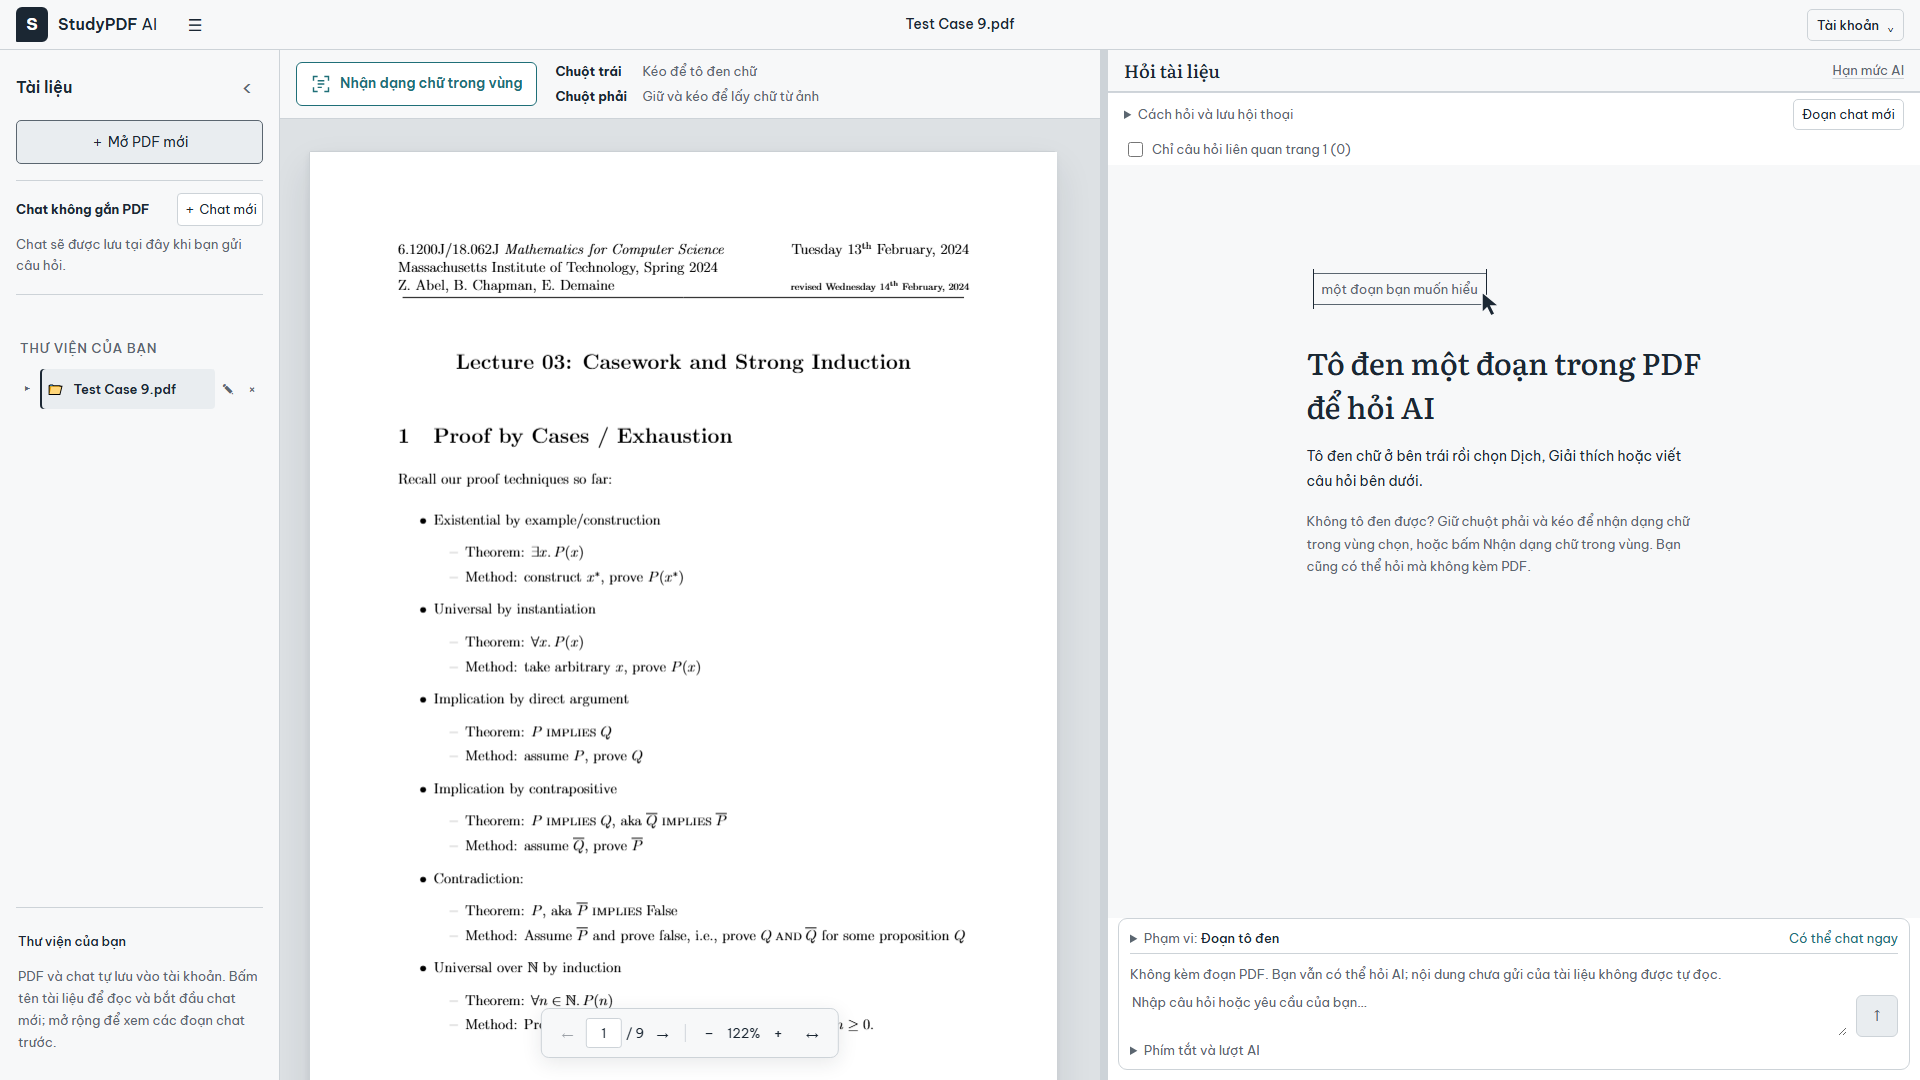
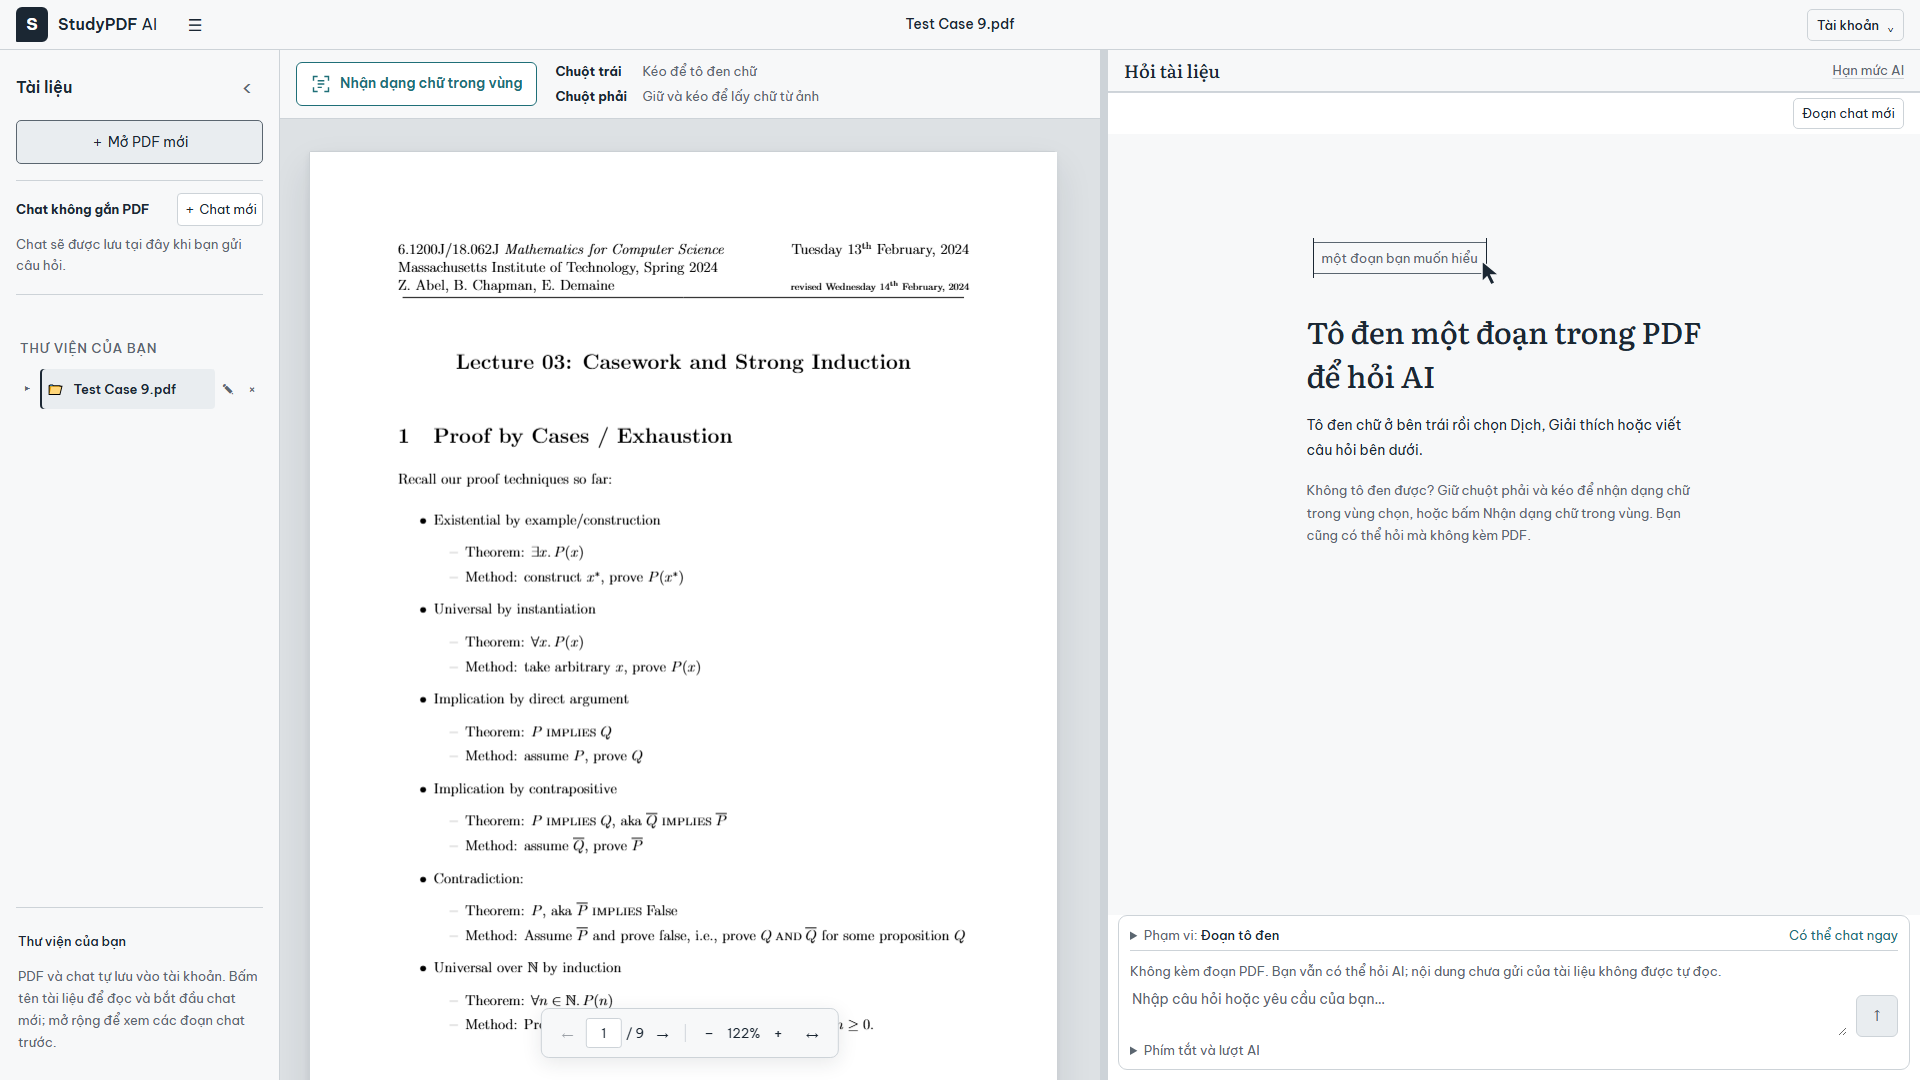
ui: enlarge chat text and remove conversation help and page filter

diff --git a/src/components/AiPanel/ChatPanel.tsx b/src/components/AiPanel/ChatPanel.tsx
@@ -1,7 +1,7 @@
 import type {OcrLanguage} from '../../services/pdf/ocr';
 import {loadChat,subscribeLibrary,saveChat,type LibrarySession} from '../../services/library/store';
 import type {ReaderContext} from '../../types/reader';
-import {parsePageRange,scopeLabel,includesPage} from '../../../shared/ai/contextScope';
+import {parsePageRange,scopeLabel} from '../../../shared/ai/contextScope';
 import type { OwnerScope } from '../../services/ownerScope';
 import { useEffect, useImperativeHandle, useRef, useState, type Ref } from 'react';
 import type { AiAction } from '../../types/ai';
@@ -38,7 +38,7 @@ export default function ChatPanel({ librarySession, readerContext, actionRef, ow
   const chosen=correction?.source===originalChosen?correction.value:originalChosen;
   const editing=!!editSource&&editSource===originalChosen;
   const saveCorrection=()=>{if(!originalChosen)return;const text=ocrDraft.trim();if(!text||text.length>12000){setEditError('Nội dung nhận dạng cần từ 1 đến 12.000 ký tự.');return;}setCorrection({source:originalChosen,value:{...originalChosen,text,cleanedText:text}});setEditSource(null);setEditError('');};
-  const [pageOnly,setPageOnly]=useState(false),[visibleCount,setVisibleCount]=useState(20);
+  const [visibleCount,setVisibleCount]=useState(20);
   useEffect(()=>()=>{preparation.current?.abort();},[contextKey]);
   const prepare=async()=>{
     if(!readerContext)return;
@@ -158,16 +158,13 @@ export default function ChatPanel({ librarySession, readerContext, actionRef, ow
     sendSelection: (action, source) => send(action === 'translate' ? 'Dịch đoạn đã chọn sang tiếng Việt.' : 'Giải thích đoạn đã chọn.', correction?.source===source?correction.value:source, action),
   }));
 
-  const filtered=pageOnly&&readerContext?turns.filter(turn=>!!turn.selection.cleanedText.trim()&&includesPage(turn.selection.scope,turn.selection.pageNumber,readerContext.currentPage)):turns;
-  const visible=filtered.slice(-visibleCount);
+  const visible=turns.slice(-visibleCount);
   return <section className="ai-panel ask-chat" aria-label="Hội thoại Hỏi AI" data-selection-controls>
     <header className="chat-header">
       <strong>Hội thoại AI</strong>
-      <details className="chat-help"><summary>Cách hỏi và lưu hội thoại</summary><small>Tô đen một đoạn để chọn Dịch hoặc Giải thích, hoặc viết yêu cầu vào ô bên dưới. PDF và chat tự lưu vào tài khoản. Để đọc lại, mở rộng tên tài liệu bên trái và chọn đoạn chat. Nội dung bạn chọn và các lượt chat gần nhất được gửi tới Google khi bạn hỏi AI.</small></details>
       <button type="button" disabled={!librarySession&&!turns.length} onClick={()=>void (librarySession?librarySession.onNew():flush().then(()=>change(()=>[]))).catch(e=>setSaveError(e.message))}>Đoạn chat mới</button>
     </header>
     {saveError&&<p role="alert">{saveError} <button onClick={()=>void persist().catch(e=>setSaveError(e.message))}>Thử lưu lại</button></p>}
-    {readerContext&&<label className="chat-page-filter"><input type="checkbox" checked={pageOnly} onChange={event=>{setPageOnly(event.target.checked);setVisibleCount(20);}}/>Chỉ câu hỏi liên quan trang {readerContext.currentPage} ({filtered.length})</label>}
     <div className="chat-messages" ref={messages} onScroll={event => {
       const node = event.currentTarget;
       follow.current = node.scrollHeight - node.scrollTop - node.clientHeight < 80;
@@ -179,8 +176,7 @@ export default function ChatPanel({ librarySession, readerContext, actionRef, ow
         <small>Không tô đen được? Giữ chuột phải và kéo để nhận dạng chữ trong vùng chọn, hoặc bấm Nhận dạng chữ trong vùng. Bạn cũng có thể hỏi mà không kèm PDF.</small>
       </div>}
 
-      {filtered.length>visibleCount&&<button type="button" onClick={()=>{follow.current=false;setVisibleCount(n=>n+20);}}>Xem thêm 20 lượt trước</button>}
-      {pageOnly&&turns.length>0&&filtered.length===0&&<p>Chưa có câu hỏi liên quan trang này trong hội thoại hiện tại. Mở rộng thư mục PDF bên trái để xem các chat cũ.</p>}
+      {turns.length>visibleCount&&<button type="button" onClick={()=>{follow.current=false;setVisibleCount(n=>n+20);}}>Xem thêm 20 lượt trước</button>}
       {visible.map((turn) => <article className="chat-turn" key={turn.id}>
         <div className="chat-user"><strong>Bạn</strong><p>{turn.question}</p>
           {turn.selection.cleanedText.trim()?<details open><summary>{scopeLabel(turn.selection.scope,turn.selection.pageNumber)}</summary><blockquote>{turn.selection.cleanedText}</blockquote></details>:<small>Không kèm đoạn PDF</small>}

diff --git a/src/index.css b/src/index.css
@@ -869,3 +869,9 @@ button:disabled {cursor:default;}
  .chat-turn {gap:16px;margin-bottom:23px;}
  .split-ai .chat-composer {margin:0 8px 8px;}
 }
+
+/* Slightly larger conversation text; secondary filter/help controls removed. */
+.split-ai .chat-messages,.ai-answer,.chat-user p {font-size:14px;}
+.split-ai .chat-input-row textarea {font-size:14px;}
+.chat-assistant > strong {font-size:14px;}
+.split-ai .chat-header {padding-block:5px;}
